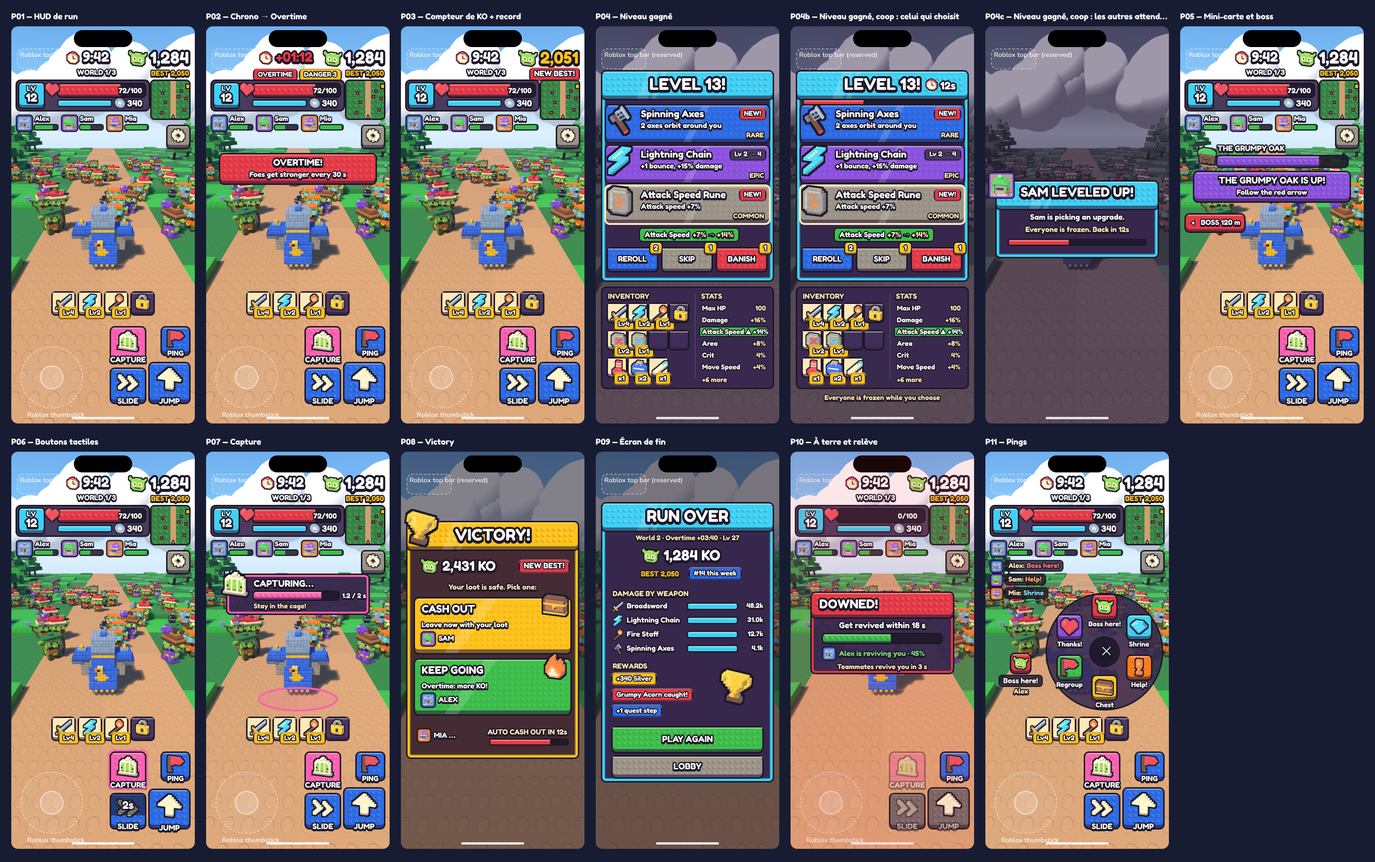
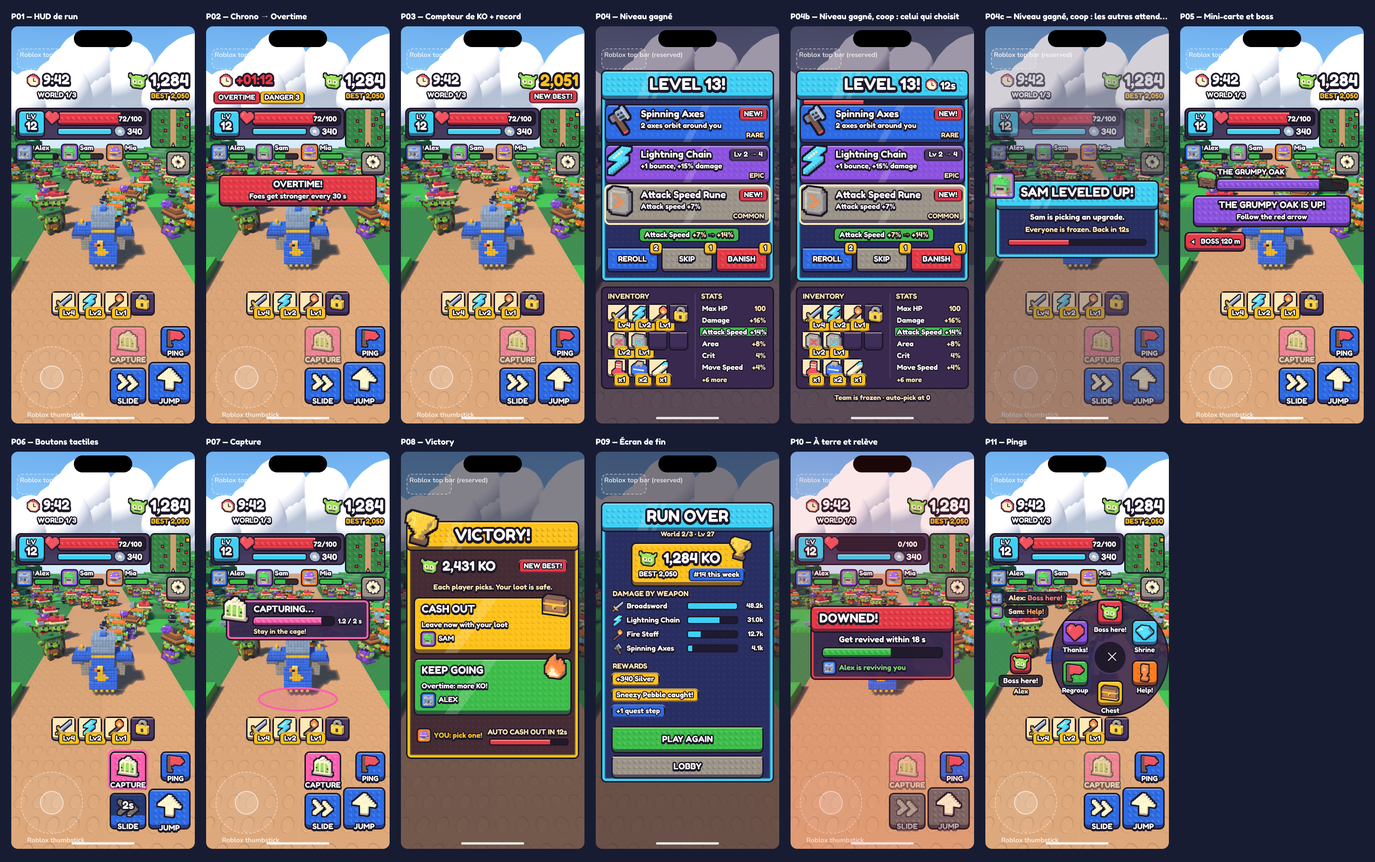
A08 : v3, passe 2 de la relecture à l'aveugle
- Écrans paysage, portrait et PC : débordements, marges, barres de
  dégâts à l'échelle, tuile Capture grisée hors cage, HUD figé derrière
  l'attente coop, « Team is frozen / auto-pick », « YOU: pick one! »,
  portrait sous une barre Roblox de 150 px.
- PC reconstruit depuis le paysage, légendes manette sur les fenêtres.
- Composants : Tag et fil des pings 15 px, corps de fenêtre teintés,
  états de capture rouge / vert, panneau À terre simplifié.
- Dossier 60 et ledger : notes 5,8-7,5 puis 6,7-7,5 (médiane 7,5).

diff --git a/docs/dossier/60-ui-ux.md b/docs/dossier/60-ui-ux.md
@@ -81,6 +81,27 @@ Règles propres à chaque format :
   - Raccourcis : 1, 2, 3 pour les offres ; R, X et B pour reroll, skip et banish ; C et K pour Victory ; Entrée et L pour l'écran de fin.
   - C06 devient la fenêtre CONTROLS, avec un exemple de focus manette (contour crème de 4 px).
 
+**Relecture à l'aveugle (3 relecteurs, deux passes).** Plusieurs relecteurs ont noté la même chose :
+- Passe 1 : 5,8 / 6,7 / 7,5. Les défauts bloquants étaient des marges de 3 px et des chevauchements.
+- Passe 2 : 6,7 / 7,5 / 7,5, médiane 7,5. Il restait deux défauts bloquants : un texte qui débordait sur P04, et les fenêtres sans boutons de manette sur PC.
+- Pour les trois relecteurs, la v3 n'est « plus de l'AI slop, mais pas encore au niveau des références ».
+
+Corrigé après la passe 2, sans nouvelle notation :
+- débordements et marges ;
+- barres de dégâts à l'échelle ;
+- tuile Capture grisée hors cage ;
+- portrait décalé sous une barre Roblox de 150 px ;
+- légendes de manette sur les fenêtres PC ;
+- texte « Team is frozen. Auto-pick at 0 » ;
+- HUD figé visible derrière la fenêtre d'attente ;
+- carte de victoire « YOU: pick one! » ;
+- panneaux à 12 px des tuiles.
+
+Ce qui reste demande un choix de Clément :
+1. **Formes de fenêtres variées.** Les références ont des titres décalés, des onglets en biais et des plaques épaisses ; chez nous, toutes les fenêtres ont la même forme.
+2. **Moins de chiffres.** Stats et récompenses sous forme de tuiles à icône, plutôt qu'en listes.
+3. **Corps de fenêtre plus colorés.** Ils sont désormais teintés de leur couleur, mais restent sombres.
+
 Fonds : `concept/run_scene.py` rend maintenant les trois formats (`run_landscape.png`, `run_portrait.png`, `run_pc.png`). Planches : `concept/captures/v3-planche-*.png` et `v3-composants.png`.
 
 **Lobby piloté par l'interface (décision de Clément du 5 nov. 2026, transmise par le lead)**
